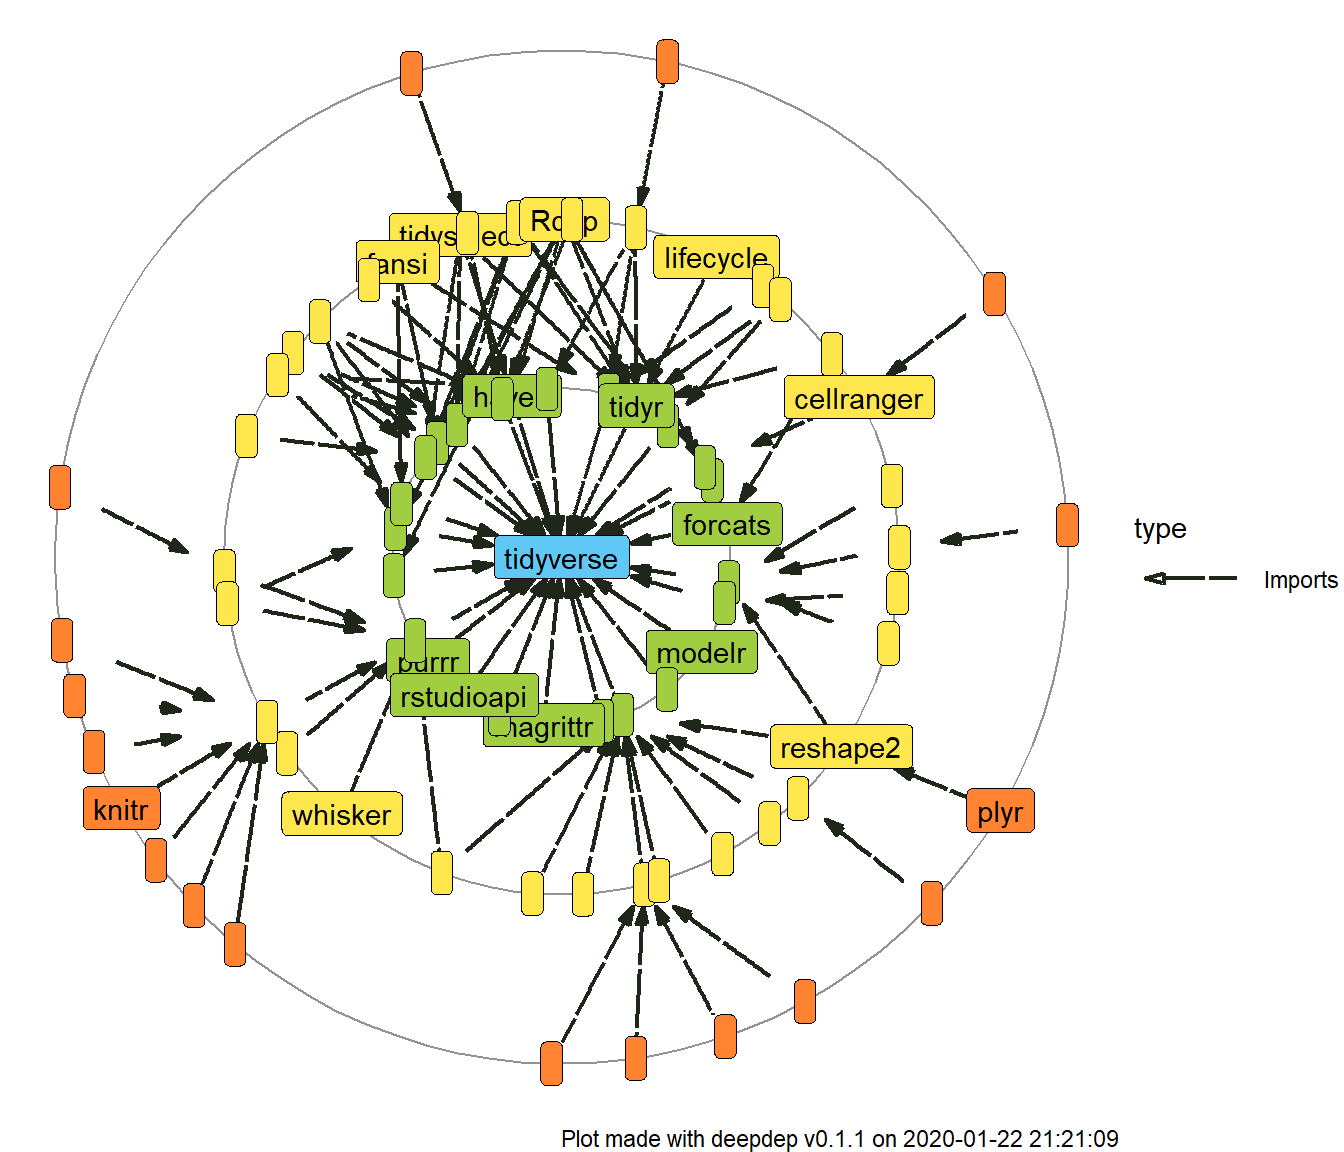
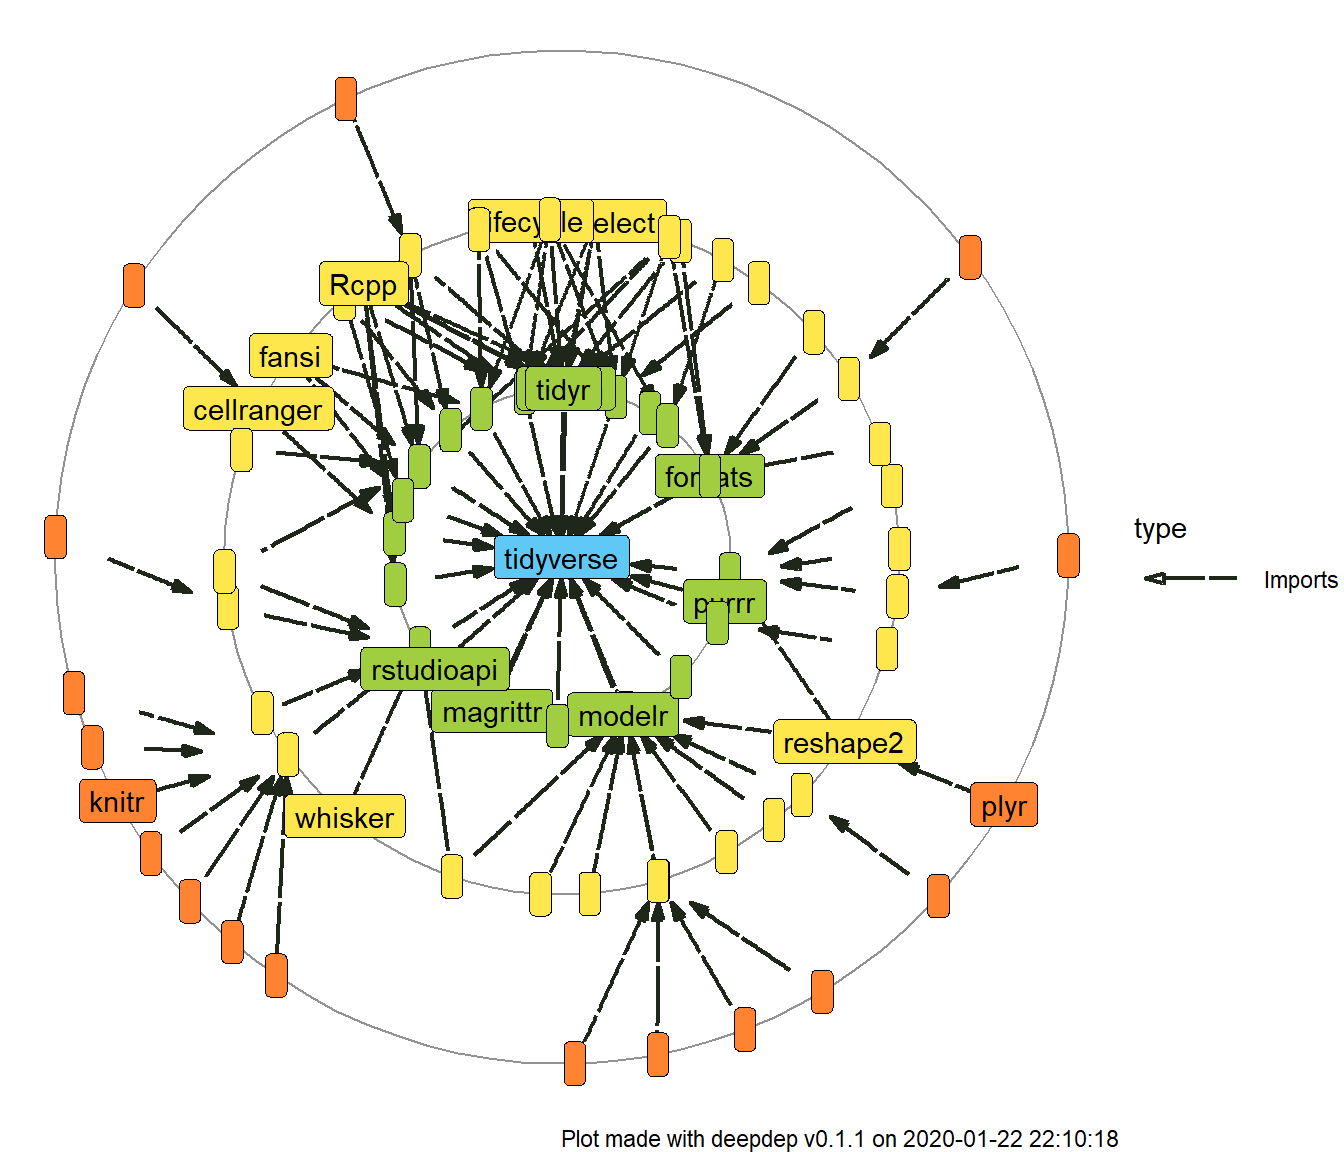
fix plot downloads

diff --git a/docs/index.html b/docs/index.html
@@ -113,27 +113,35 @@
 <a href="#demo" class="anchor"></a>Demo</h2>
 <div class="sourceCode" id="cb2"><pre class="sourceCode r"><code class="sourceCode r"><a class="sourceLine" id="cb2-1" title="1"><span class="kw"><a href="https://rdrr.io/r/base/library.html">library</a></span>(deepdep)</a>
 <a class="sourceLine" id="cb2-2" title="2"></a>
-<a class="sourceLine" id="cb2-3" title="3">dd1 &lt;-<span class="st"> </span><span class="kw"><a href="reference/deepdep.html">deepdep</a></span>(<span class="st">"ggplot2"</span>, <span class="dt">downloads =</span> <span class="ot">TRUE</span>)</a>
+<a class="sourceLine" id="cb2-3" title="3">dd &lt;-<span class="st"> </span><span class="kw"><a href="reference/deepdep.html">deepdep</a></span>(<span class="st">"ggplot2"</span>, <span class="dt">depth =</span> <span class="dv">2</span>)</a>
 <a class="sourceLine" id="cb2-4" title="4"></a>
-<a class="sourceLine" id="cb2-5" title="5"><span class="kw"><a href="https://rdrr.io/r/utils/head.html">head</a></span>(dd1)</a></code></pre></div>
-<div class="sourceCode" id="cb3"><pre class="sourceCode R"><code class="sourceCode r"><a class="sourceLine" id="cb3-1" title="1"><span class="co">##    origin     name  version    type last_day last_week last_month last_quarter last_half grand_total</span></a>
-<a class="sourceLine" id="cb3-2" title="2"><span class="co">## 1 ggplot2   digest     &lt;NA&gt; Imports    28386    197307     642119      2540192   4934872    23738239</span></a>
-<a class="sourceLine" id="cb3-3" title="3"><span class="co">## 2 ggplot2   gtable &gt;= 0.1.1 Imports    15395    103453     319982      1284442   2669634    15152569</span></a>
-<a class="sourceLine" id="cb3-4" title="4"><span class="co">## 3 ggplot2 lazyeval     &lt;NA&gt; Imports    19591    135910     475254      1739141   3375715    16307093</span></a>
-<a class="sourceLine" id="cb3-5" title="5"><span class="co">## 4 ggplot2     MASS     &lt;NA&gt; Imports     5362     35342     128418       379084    705599     5642553</span></a>
-<a class="sourceLine" id="cb3-6" title="6"><span class="co">## 5 ggplot2     mgcv     &lt;NA&gt; Imports     2449     16403      57414       347689    617739     4609430</span></a>
-<a class="sourceLine" id="cb3-7" title="7"><span class="co">## 6 ggplot2 reshape2     &lt;NA&gt; Imports    20973    145371     488143      1785842   3530723    18852059</span></a></code></pre></div>
-<div class="sourceCode" id="cb4"><pre class="sourceCode r"><code class="sourceCode r"><a class="sourceLine" id="cb4-1" title="1"><span class="kw"><a href="reference/plot_deepdep.html">plot_dependencies</a></span>(dd1, <span class="st">"tree"</span>, <span class="dt">show_downloads =</span> <span class="ot">TRUE</span>)</a></code></pre></div>
+<a class="sourceLine" id="cb2-5" title="5"><span class="kw"><a href="https://rdrr.io/r/utils/head.html">head</a></span>(dd)</a></code></pre></div>
+<div class="sourceCode" id="cb3"><pre class="sourceCode R"><code class="sourceCode r"><a class="sourceLine" id="cb3-1" title="1"><span class="co">##    origin     name  version    type</span></a>
+<a class="sourceLine" id="cb3-2" title="2"><span class="co">## 1 ggplot2   digest     &lt;NA&gt; Imports</span></a>
+<a class="sourceLine" id="cb3-3" title="3"><span class="co">## 2 ggplot2   gtable &gt;= 0.1.1 Imports</span></a>
+<a class="sourceLine" id="cb3-4" title="4"><span class="co">## 3 ggplot2 lazyeval     &lt;NA&gt; Imports</span></a>
+<a class="sourceLine" id="cb3-5" title="5"><span class="co">## 4 ggplot2     MASS     &lt;NA&gt; Imports</span></a>
+<a class="sourceLine" id="cb3-6" title="6"><span class="co">## 5 ggplot2     mgcv     &lt;NA&gt; Imports</span></a>
+<a class="sourceLine" id="cb3-7" title="7"><span class="co">## 6 ggplot2 reshape2     &lt;NA&gt; Imports</span></a></code></pre></div>
+<div class="sourceCode" id="cb4"><pre class="sourceCode r"><code class="sourceCode r"><a class="sourceLine" id="cb4-1" title="1"><span class="kw"><a href="reference/plot_deepdep.html">plot_dependencies</a></span>(dd, <span class="st">"circular"</span>)</a></code></pre></div>
 <p><img src="README_files/figure-gfm/unnamed-chunk-2-1.png" style="display: block; margin: auto;"></p>
-<div class="sourceCode" id="cb5"><pre class="sourceCode r"><code class="sourceCode r"><a class="sourceLine" id="cb5-1" title="1">dd2 &lt;-<span class="st"> </span><span class="kw"><a href="reference/deepdep.html">deepdep</a></span>(<span class="st">"ggplot2"</span>, <span class="dt">depth =</span> <span class="dv">2</span>)</a>
-<a class="sourceLine" id="cb5-2" title="2"></a>
-<a class="sourceLine" id="cb5-3" title="3"><span class="kw"><a href="reference/plot_deepdep.html">plot_dependencies</a></span>(dd2, <span class="st">"circular"</span>)</a></code></pre></div>
+<div class="sourceCode" id="cb5"><pre class="sourceCode r"><code class="sourceCode r"><a class="sourceLine" id="cb5-1" title="1"><span class="kw"><a href="reference/plot_deepdep.html">plot_dependencies</a></span>(<span class="st">"bayes4psy"</span>, <span class="dt">show_version =</span> <span class="ot">TRUE</span>,</a>
+<a class="sourceLine" id="cb5-2" title="2">                  <span class="dt">dependency_type =</span> <span class="kw"><a href="https://rdrr.io/r/base/c.html">c</a></span>(<span class="st">"Depends"</span>, <span class="st">"Imports"</span>, <span class="st">"Suggests"</span>, <span class="st">"LinkingTo"</span>))</a></code></pre></div>
 <p><img src="README_files/figure-gfm/unnamed-chunk-3-1.png" style="display: block; margin: auto;"></p>
-<div class="sourceCode" id="cb6"><pre class="sourceCode r"><code class="sourceCode r"><a class="sourceLine" id="cb6-1" title="1"><span class="kw"><a href="reference/plot_deepdep.html">plot_dependencies</a></span>(<span class="st">"bayes4psy"</span>, <span class="dt">show_version =</span> <span class="ot">TRUE</span>, <span class="dt">dependency_type =</span> <span class="kw"><a href="https://rdrr.io/r/base/c.html">c</a></span>(<span class="st">"Depends"</span>, <span class="st">"Imports"</span>, <span class="st">"Suggests"</span>, <span class="st">"LinkingTo"</span>))</a></code></pre></div>
+<div class="sourceCode" id="cb6"><pre class="sourceCode r"><code class="sourceCode r"><a class="sourceLine" id="cb6-1" title="1">dd_xgboost &lt;-<span class="st"> </span><span class="kw"><a href="reference/deepdep.html">deepdep</a></span>(<span class="st">"xgboost"</span>, <span class="dt">dependency_type =</span> <span class="st">"Imports"</span>, <span class="dt">downloads =</span> <span class="ot">TRUE</span>)</a>
+<a class="sourceLine" id="cb6-2" title="2"></a>
+<a class="sourceLine" id="cb6-3" title="3"><span class="kw"><a href="https://rdrr.io/r/utils/head.html">head</a></span>(dd_xgboost)</a></code></pre></div>
+<div class="sourceCode" id="cb7"><pre class="sourceCode R"><code class="sourceCode r"><a class="sourceLine" id="cb7-1" title="1"><span class="co">##    origin       name  version    type last_day last_week last_month last_quarter last_half grand_total</span></a>
+<a class="sourceLine" id="cb7-2" title="2"><span class="co">## 1 xgboost     Matrix &gt;= 1.1-0 Imports     3019     20416      71951       286778    512873     4519559</span></a>
+<a class="sourceLine" id="cb7-3" title="3"><span class="co">## 2 xgboost data.table &gt;= 1.9.6 Imports    18209    124046     414359      1612428   3220026    15729449</span></a>
+<a class="sourceLine" id="cb7-4" title="4"><span class="co">## 3 xgboost   magrittr   &gt;= 1.5 Imports   142632    948345    4123117     11920228  21746128    39676585</span></a>
+<a class="sourceLine" id="cb7-5" title="5"><span class="co">## 4 xgboost    stringi &gt;= 0.5.2 Imports    32340    227984     673806      2125319   4081476    23078784</span></a></code></pre></div>
+<div class="sourceCode" id="cb8"><pre class="sourceCode r"><code class="sourceCode r"><a class="sourceLine" id="cb8-1" title="1"><span class="kw"><a href="reference/plot_downloads.html">plot_downloads</a></span>(dd_xgboost)</a></code></pre></div>
 <p><img src="README_files/figure-gfm/unnamed-chunk-4-1.png" style="display: block; margin: auto;"></p>
-<!------------------------
+<div class="sourceCode" id="cb9"><pre class="sourceCode r"><code class="sourceCode r"><a class="sourceLine" id="cb9-1" title="1"><span class="kw"><a href="reference/plot_deepdep.html">plot_dependencies</a></span>(dd_xgboost, <span class="st">"tree"</span>, <span class="dt">show_version =</span> <span class="ot">TRUE</span>)</a></code></pre></div>
+<p><img src="README_files/figure-gfm/unnamed-chunk-4-2.png" style="display: block; margin: auto;"><!------------------------
 
-This package was made during `1120-DS000-ISP-0500`[Advanced Programming in R](https://github.com/mini-pw/2020Z-ProgramowanieWR) course at Warsaw University of Technology.-->
+This package was made during `1120-DS000-ISP-0500`[Advanced Programming in R](https://github.com/mini-pw/2020Z-ProgramowanieWR) course at Warsaw University of Technology.--></p>
 </div>
 </div>
   </div>

diff --git a/README.md b/README.md
@@ -46,39 +46,55 @@ devtools::install_github("DominikRafacz/deepdep")
 ``` r
 library(deepdep)
 
-dd1 <- deepdep("ggplot2", downloads = TRUE)
+dd <- deepdep("ggplot2", depth = 2)
 
-head(dd1)
+head(dd)
 ```
 
-    ##    origin     name  version    type last_day last_week last_month last_quarter last_half grand_total
-    ## 1 ggplot2   digest     <NA> Imports    28386    197307     642119      2540192   4934872    23738239
-    ## 2 ggplot2   gtable >= 0.1.1 Imports    15395    103453     319982      1284442   2669634    15152569
-    ## 3 ggplot2 lazyeval     <NA> Imports    19591    135910     475254      1739141   3375715    16307093
-    ## 4 ggplot2     MASS     <NA> Imports     5362     35342     128418       379084    705599     5642553
-    ## 5 ggplot2     mgcv     <NA> Imports     2449     16403      57414       347689    617739     4609430
-    ## 6 ggplot2 reshape2     <NA> Imports    20973    145371     488143      1785842   3530723    18852059
+    ##    origin     name  version    type
+    ## 1 ggplot2   digest     <NA> Imports
+    ## 2 ggplot2   gtable >= 0.1.1 Imports
+    ## 3 ggplot2 lazyeval     <NA> Imports
+    ## 4 ggplot2     MASS     <NA> Imports
+    ## 5 ggplot2     mgcv     <NA> Imports
+    ## 6 ggplot2 reshape2     <NA> Imports
 
 ``` r
-plot_dependencies(dd1, "tree", show_downloads = TRUE)
+plot_dependencies(dd, "circular")
 ```
 
 <img src="README_files/figure-gfm/unnamed-chunk-2-1.png" style="display: block; margin: auto;" />
 
 ``` r
-dd2 <- deepdep("ggplot2", depth = 2)
-
-plot_dependencies(dd2, "circular")
+plot_dependencies("bayes4psy", show_version = TRUE,
+                  dependency_type = c("Depends", "Imports", "Suggests", "LinkingTo"))
 ```
 
 <img src="README_files/figure-gfm/unnamed-chunk-3-1.png" style="display: block; margin: auto;" />
 
 ``` r
-plot_dependencies("bayes4psy", show_version = TRUE, dependency_type = c("Depends", "Imports", "Suggests", "LinkingTo"))
+dd_xgboost <- deepdep("xgboost", dependency_type = "Imports", downloads = TRUE)
+
+head(dd_xgboost)
+```
+
+    ##    origin       name  version    type last_day last_week last_month last_quarter last_half grand_total
+    ## 1 xgboost     Matrix >= 1.1-0 Imports     3019     20416      71951       286778    512873     4519559
+    ## 2 xgboost data.table >= 1.9.6 Imports    18209    124046     414359      1612428   3220026    15729449
+    ## 3 xgboost   magrittr   >= 1.5 Imports   142632    948345    4123117     11920228  21746128    39676585
+    ## 4 xgboost    stringi >= 0.5.2 Imports    32340    227984     673806      2125319   4081476    23078784
+
+``` r
+plot_downloads(dd_xgboost)
 ```
 
 <img src="README_files/figure-gfm/unnamed-chunk-4-1.png" style="display: block; margin: auto;" />
 
+``` r
+plot_dependencies(dd_xgboost, "tree", show_version = TRUE)
+```
+
+<img src="README_files/figure-gfm/unnamed-chunk-4-2.png" style="display: block; margin: auto;" />
 <!------------------------
 
 This package was made during `1120-DS000-ISP-0500`[Advanced Programming in R](https://github.com/mini-pw/2020Z-ProgramowanieWR) course at Warsaw University of Technology.-->
